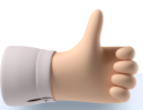
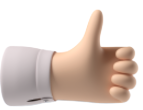
made final changes

diff --git a/index.html b/index.html
@@ -21,8 +21,8 @@
                 <img class="img-fluid" src="./assets/images/navbar-brand.PNG" alt="">
                 <label class="d-inline d-lg-none" for="hamburger"><span class="fa fa-times"></span></label>
             </figure>
-            <nav class="flex-grow-1 overflow-vertical">
-                <ul class="nav flex-column">
+            <nav class="d-flex flex-column flex-grow-1 overflow-vertical">
+                <ul class="nav flex-column mb-5">
                     <li class="nav-item mx-3 py-1"><a class="nav-link rounded py-2 d-flex align-items-center"
                             href=""><span class="fa fa-th-large font-icon"></span><span
                                 class="nav-text pl-2">Dashboard</span></a></li>
@@ -32,16 +32,9 @@
                     <li class="nav-item mx-3 py-1"><a class="nav-link rounded py-2 d-flex align-items-center"
                             href=""><span class="fa fa-pie-chart font-icon"></span><span
                                 class="nav-text pl-2">Task</span></a></li>
-                    <li class="nav-item mx-3 py-1">
-                        <a class="nav-link rounded p-0 d-flex align-items-center active" href="">
-                            <div class="py-2 px-2 d-flex justify-content-center align-items-center shadow">
-                                <span class="fa fa-file font-icon"></span>
-                            </div>
-                            <div class="py-2">
-                                <span class="nav-text pl-2">Documents</span>
-                            </div>
-                        </a>
-                    </li>
+                    <li class="nav-item mx-3 py-1"><a class="nav-link rounded py-2 d-flex align-items-center active"
+                            href=""><span class="fa fa-file font-icon"></span><span
+                                class="nav-text pl-2">Documents</span></a></li>
                     <li class="nav-item mx-3 py-1"><a class="nav-link rounded py-2 d-flex align-items-center"
                             href=""><span class="fa fa-shopping-bag font-icon"></span><span
                                 class="nav-text pl-2">Store</span></a></li>
@@ -55,17 +48,22 @@
                             href=""><span class="fa fa-cog font-icon"></span><span
                                 class="nav-text pl-2">Settings</span></a></li>
                 </ul>
+                <div class="bg-custom-primary pt-5 position-relative pb-3 mx-4 rounded px-3 mt-auto">
+                    <figure class="mb-0 img-fluid thumb">
+                        <img src="./assets/images/thumb.png" alt="">
+                    </figure>
+                    <p class="mb-0 py-3">Upgrade to <strong>pro</strong> for get all the features</p>
+                    <a class="pb-2" href="#">Upgrade Now <span class="fa fa-arrow-right pl-2"></span></a>
+                </div>
             </nav>
-            <figure class="py-3 px-4 mb-0">
-                <img src="./assets/images/thumps-up.PNG" alt="">
-            </figure>
             <footer>
-                <button class="btn-logout btn btn-transparent d-flex align-items-center mx-4 my-3 text-gray-700"><span
+                <button
+                    class="btn-logout btn btn-transparent d-flex align-items-center mx-4 my-3 text-gray-600 font-weight-medium"><span
                         class="fa fa-sign-out font-icon"></span><span class="pl-3">LogOut</span></button>
             </footer>
         </aside>
         <main class="d-flex flex-column flex-grow-1 bg-secondary overflow-hidden">
-            <header class="px-4 pt-3 pb-3 pb-mb-0 d-flex align-items-center justify-content-between">
+            <header class="px-4 pt-4 pb-3 pb-md-0 d-flex align-items-center justify-content-between">
                 <div class="d-flex align-items-center">
                     <label class="mb-0" for="hamburger"><span class="fa fa-bars mr-3"></span></label>
                     <h2 class="mb-0 d-none d-md-inline">Documents</h2>

diff --git a/assets/scss/base/_global.scss b/assets/scss/base/_global.scss
@@ -12,20 +12,20 @@ body {
 }
 
 // Reset
-::-webkit-scrollbar {
-    width: 8px;
-  }
-  ::-webkit-scrollbar-track {
-    background: #f1f1f1; 
-    border-radius: 10px;
-  }
-  ::-webkit-scrollbar-thumb {
-    background: #888;
-    border-radius: 10px; 
-  }
-  ::-webkit-scrollbar-thumb:hover {
-    background: #555; 
-  }  
+// ::-webkit-scrollbar {
+//     width: 8px;
+//   }
+//   ::-webkit-scrollbar-track {
+//     background: #f1f1f1; 
+//     border-radius: 10px;
+//   }
+//   ::-webkit-scrollbar-thumb {
+//     background: #888;
+//     border-radius: 10px; 
+//   }
+//   ::-webkit-scrollbar-thumb:hover {
+//     background: #555; 
+//   }  
 
 input[type="radio"],
 input[type="checkbox"] {

diff --git a/assets/css/style.css b/assets/css/style.css
@@ -13,24 +13,6 @@ body {
   overflow: hidden;
 }
 
-::-webkit-scrollbar {
-  width: 8px;
-}
-
-::-webkit-scrollbar-track {
-  background: #f1f1f1;
-  border-radius: 10px;
-}
-
-::-webkit-scrollbar-thumb {
-  background: #888;
-  border-radius: 10px;
-}
-
-::-webkit-scrollbar-thumb:hover {
-  background: #555;
-}
-
 input[type=radio],
 input[type=checkbox] {
   display: none;
@@ -11112,6 +11094,12 @@ a.text-custom-warning:hover, a.text-custom-warning:focus {
     z-index: 100;
   }
 }
+.thumb {
+  position: absolute;
+  top: -76px;
+  left: 20px;
+}
+
 .backdrop {
   display: none;
   position: absolute;

diff --git a/assets/scss/layout/_sidebar.scss b/assets/scss/layout/_sidebar.scss
@@ -46,6 +46,11 @@
         z-index: 100;
     }
 }
+.thumb{
+    position: absolute;
+    top: -76px;
+    left: 20px;
+}
 .backdrop {
     display: none;
     position: absolute;
